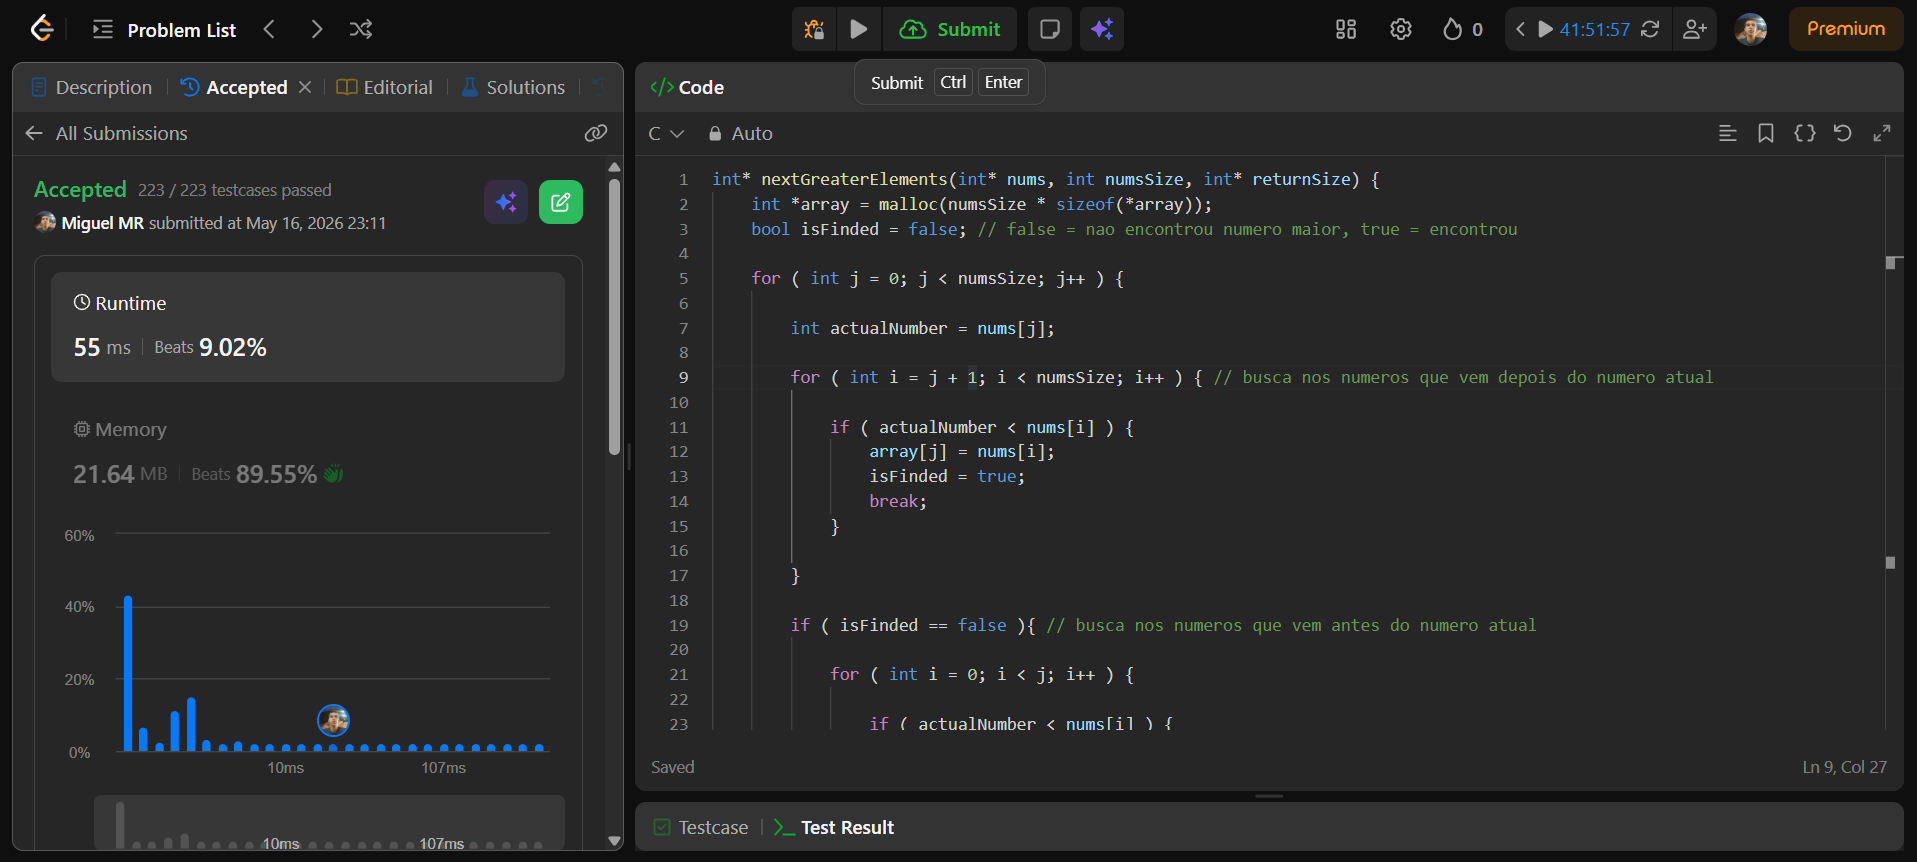
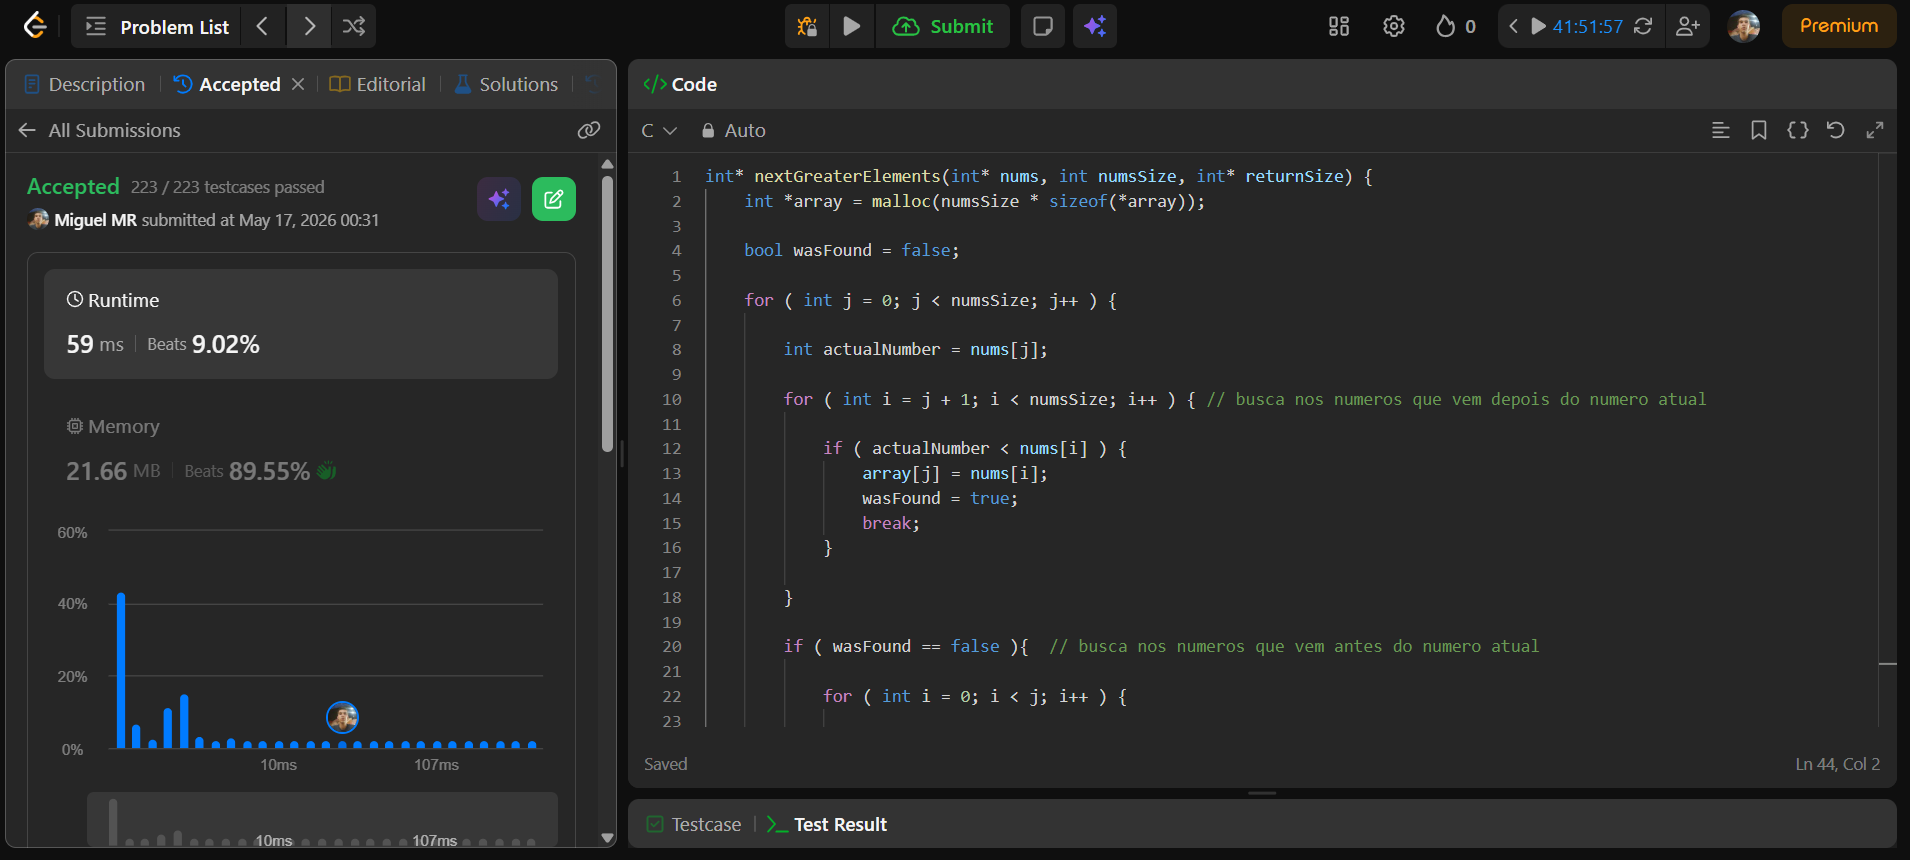
Readmes atualizados / 'main' implementada para rodar no valgrind / analise de complexidade

diff --git a/Entregas/trabalho-2/503.nextgreaterelementII.c b/Entregas/trabalho-2/503.nextgreaterelementII.c
@@ -5,29 +5,29 @@
 int* nextGreaterElements(int* nums, int numsSize, int* returnSize) {
     int *array = malloc(numsSize * sizeof(*array));
     
-    bool isFinded = false;
+    bool wasFound = false; 
 
     for ( int j = 0; j < numsSize; j++ ) {
         
         int actualNumber = nums[j];
 
-        for ( int i = j + 1; i < numsSize; i++ ) {
+        for ( int i = j + 1; i < numsSize; i++ ) { // busca nos numeros que vem depois do numero atual
 
             if ( actualNumber < nums[i] ) { 
                 array[j] = nums[i];
-                isFinded = true;
+                wasFound = true;
                 break;
             }
             
         }
 
-        if ( isFinded == false ){
+        if ( wasFound == false ){  // busca nos numeros que vem antes do numero atual
 
             for ( int i = 0; i < j; i++ ) { 
 
                 if ( actualNumber < nums[i] ) { 
                     array[j] = nums[i];
-                    isFinded = true;
+                    wasFound = true;
                     break;
                 }
             
@@ -35,11 +35,11 @@ int* nextGreaterElements(int* nums, int numsSize, int* returnSize) {
 
         }
 
-        if ( isFinded == false ) {
+        if ( wasFound == false ) { // nao encontrou
             array[j] = -1;
         }
 
-        isFinded = false;
+        wasFound = false;
         
     }
 
